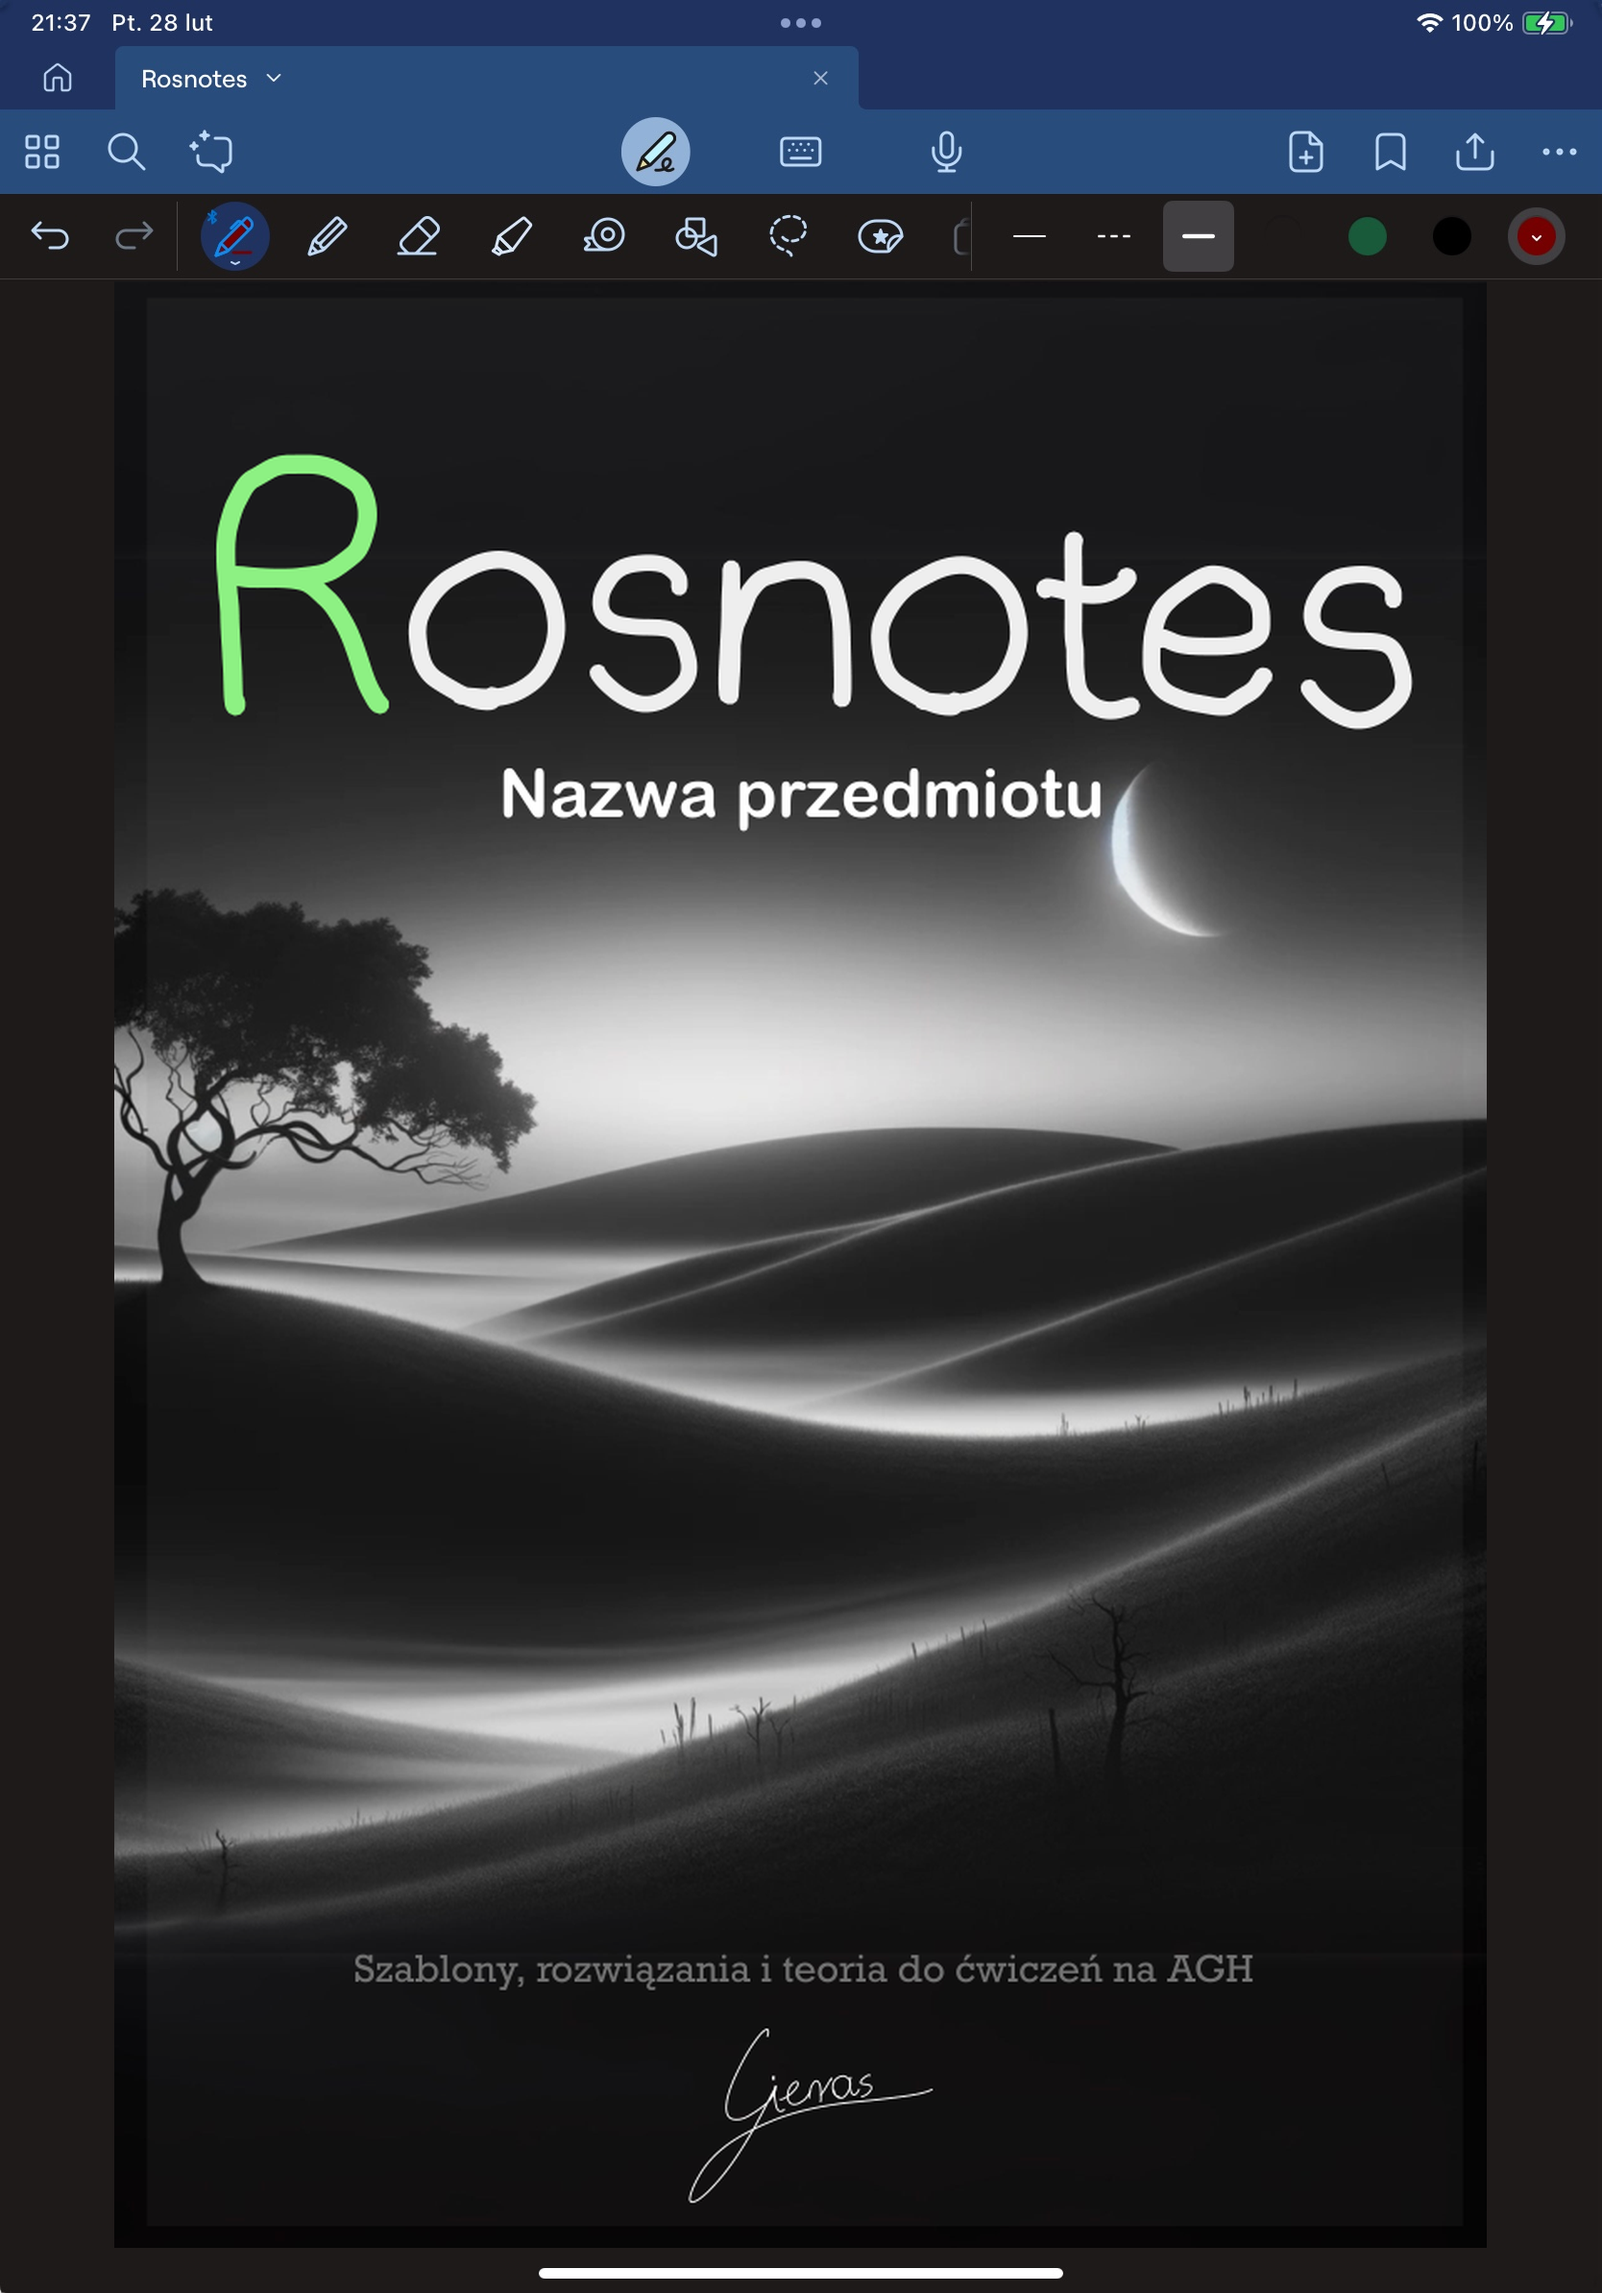
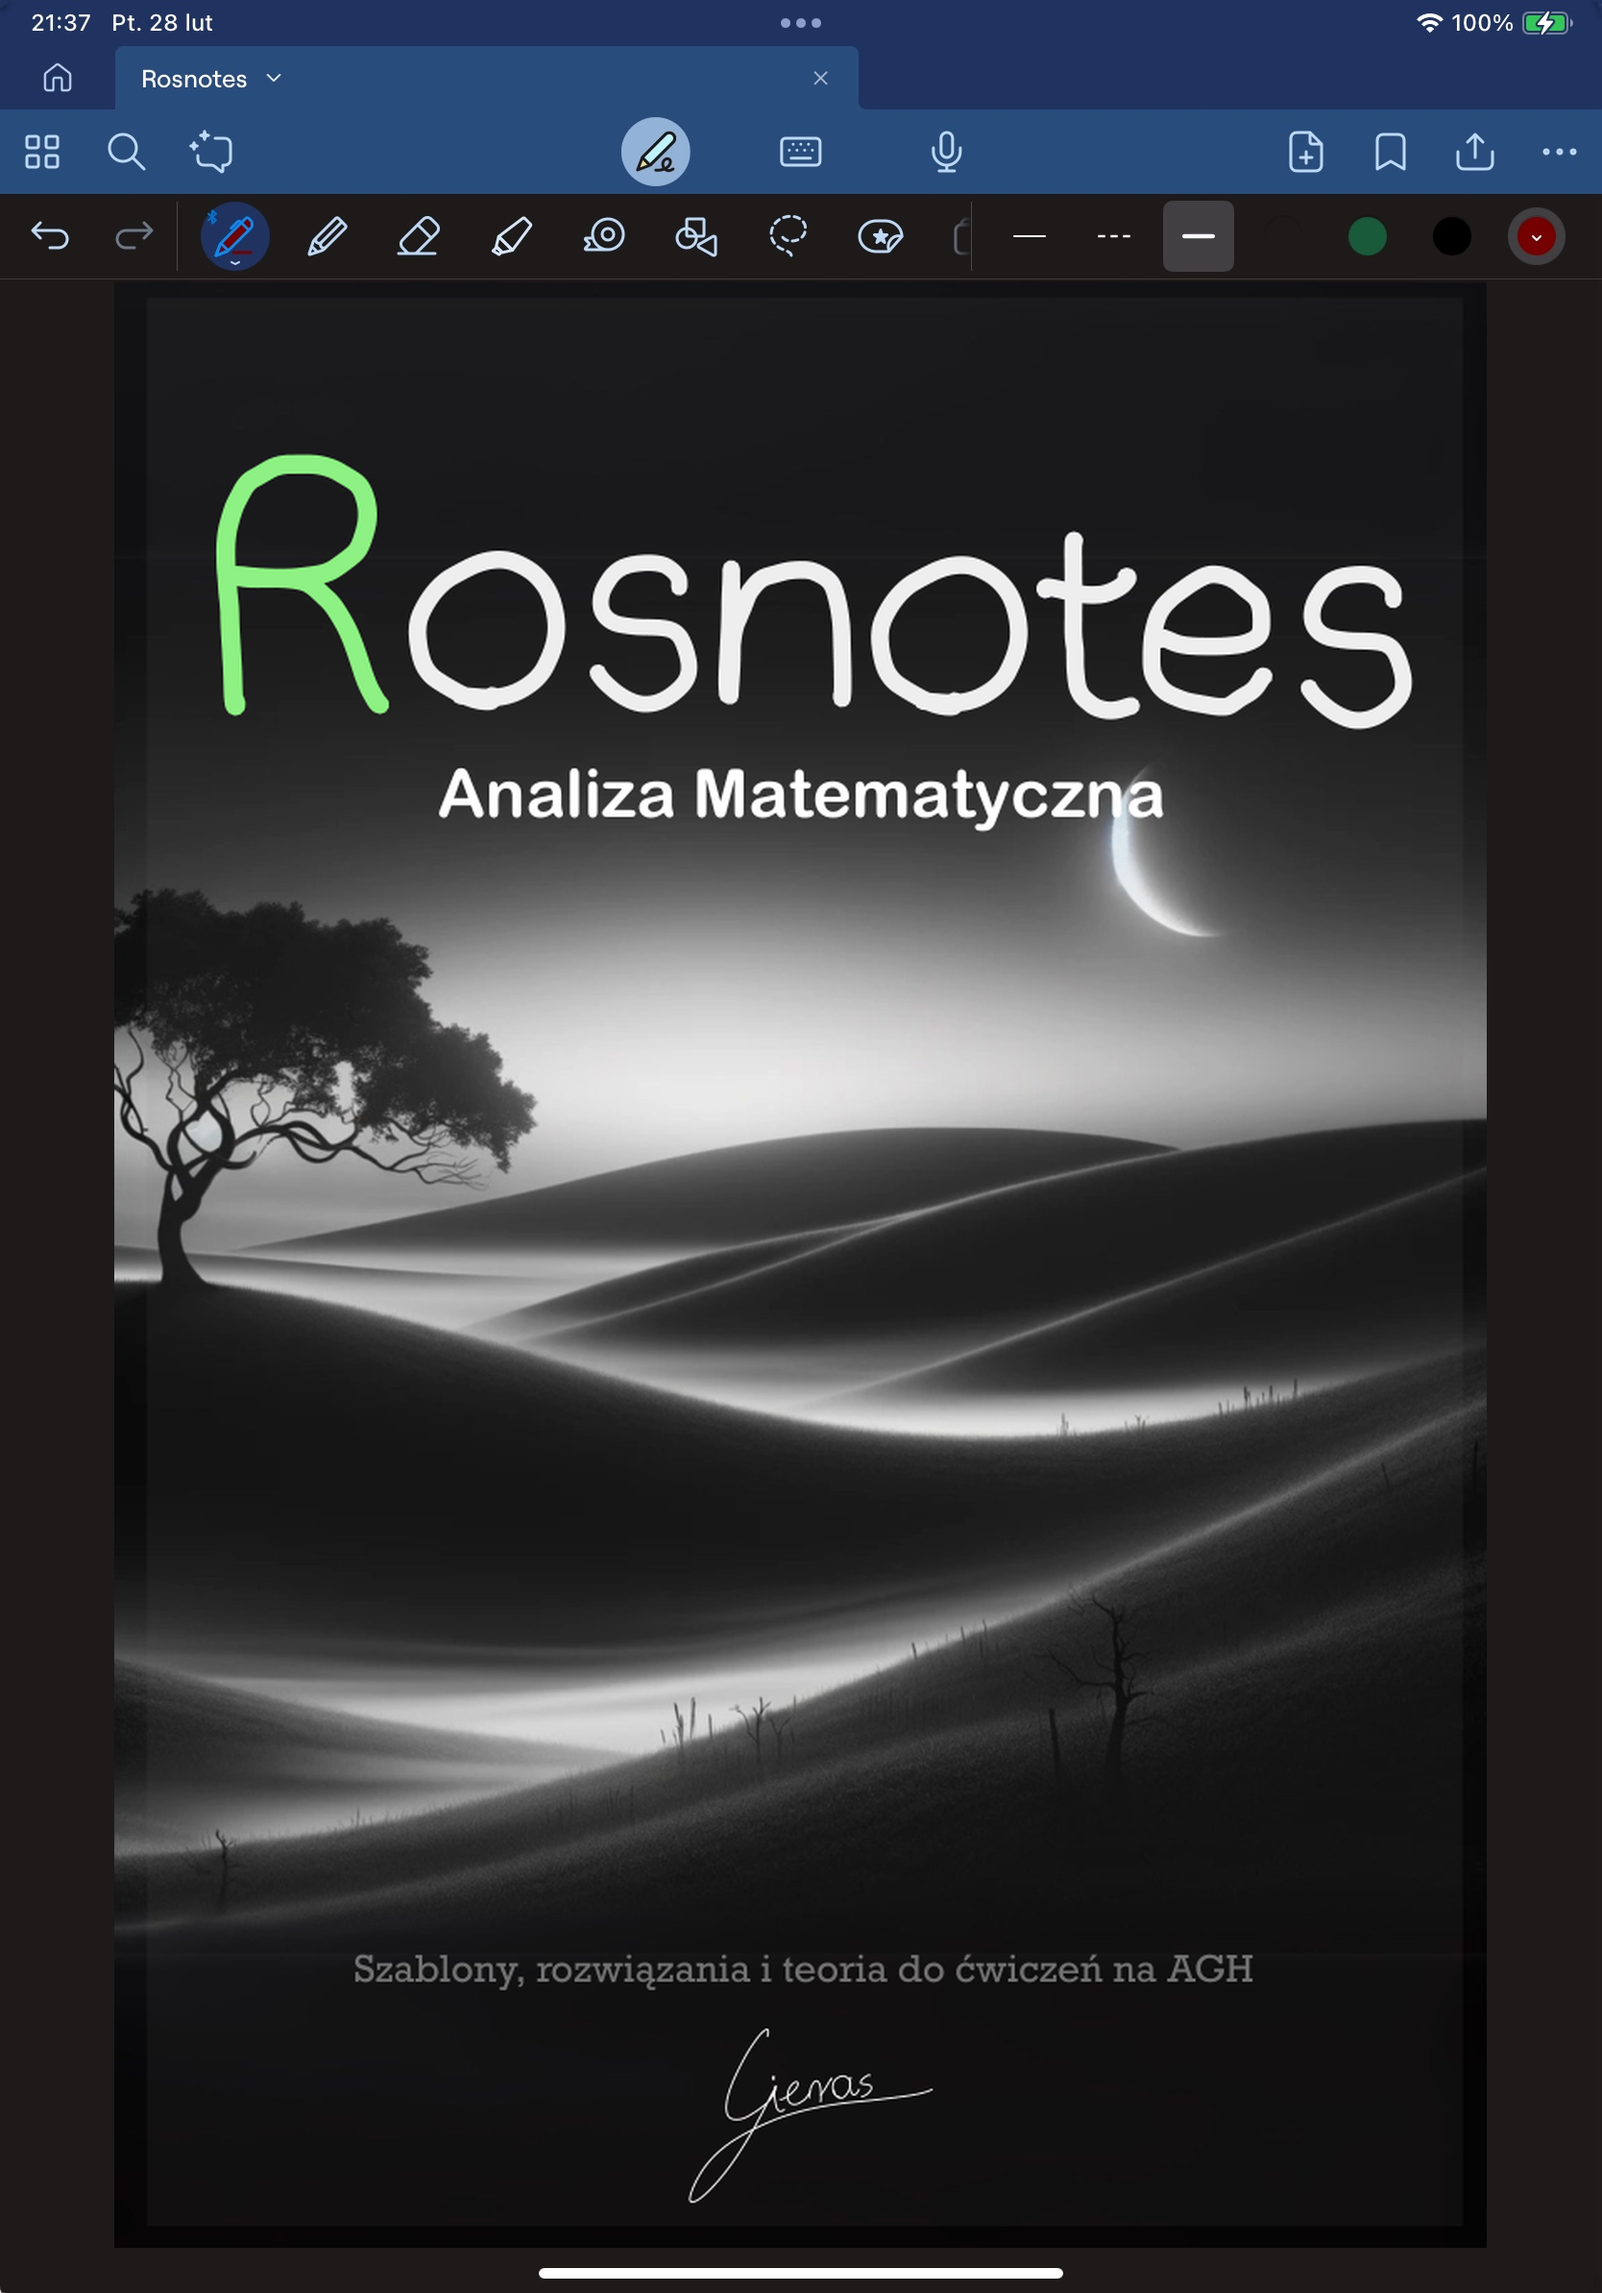
zeszyty

Changed region(s): [[0.2806, 0.3099, 0.7482, 0.3719]]

diff --git a/Organize/Organize.py b/Organize/Organize.py
@@ -10,7 +10,7 @@ class Config:
     # Notebook settings
 
     # Nazwa przedmiotu
-    NOTEBOOK_NAME = "Nazwa przedmiotu"  # Ustaw tu nazwe przedmiotu
+    NOTEBOOK_NAME = "Analiza Matematyczna"  # Ustaw tu nazwe przedmiotu
 
     THEMES = [
         "Black",
